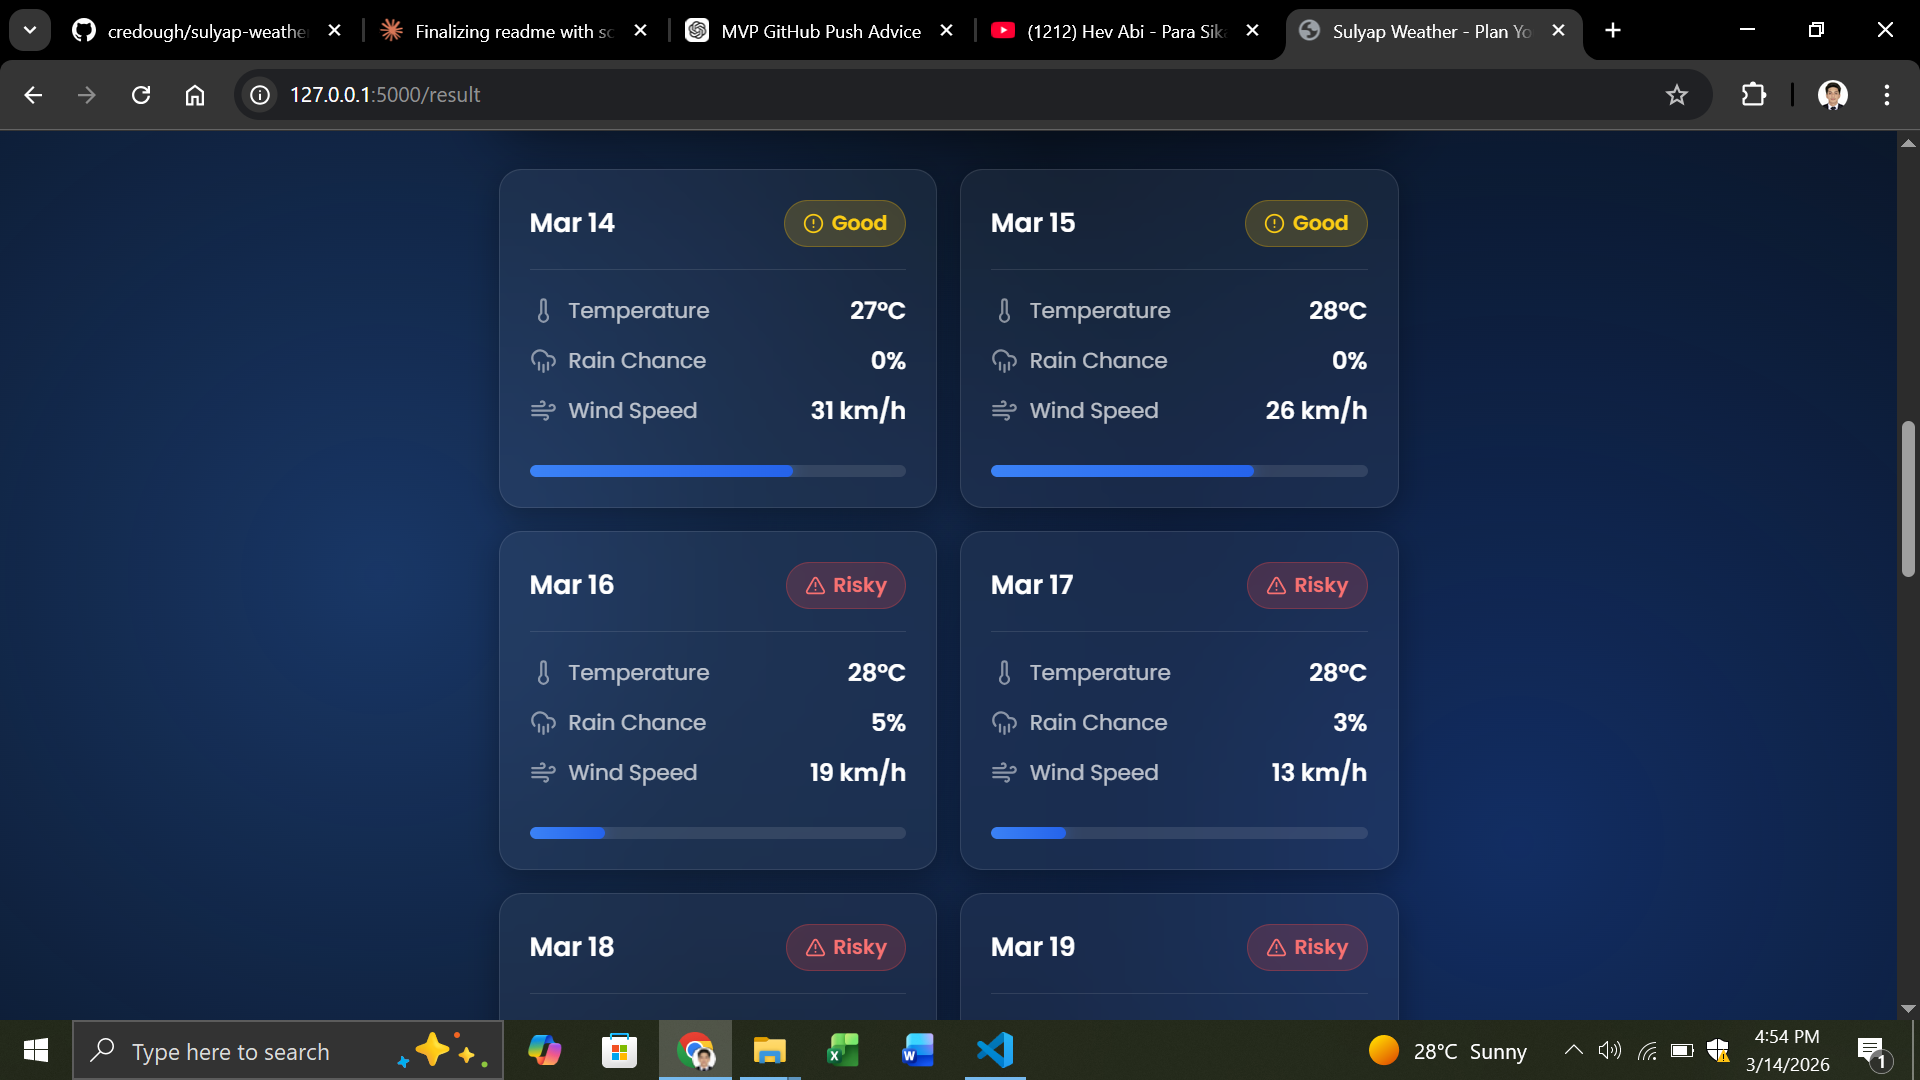
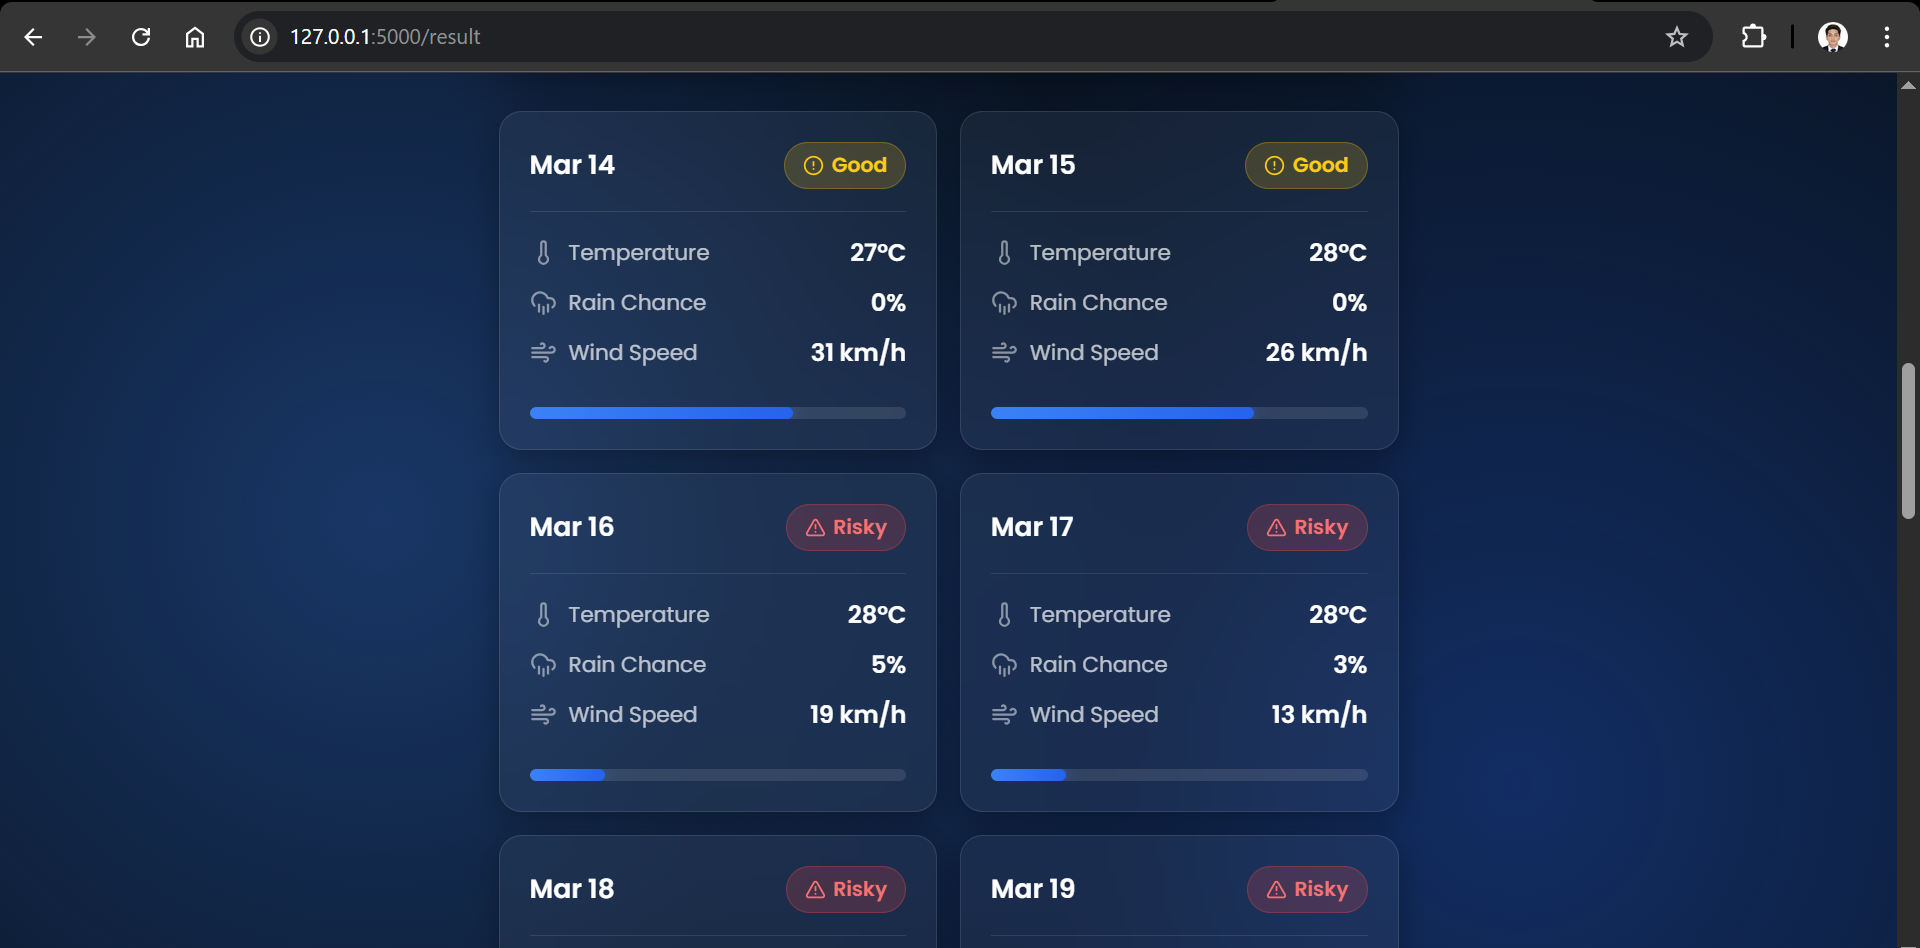
Feature/add branding theme (#10)
update readme

diff --git a/README.md b/README.md
@@ -1,7 +1,7 @@
 <div align="center">
 
   <h1>
-    <img src="logo/IMG_2220.PNG" alt="Sulyap Weather Logo" height="50" style="vertical-align: middle; margin-right: 10px;"/>
+    <img src="logo/IMG_2220.PNG" alt="Sulyap Weather Logo" height="30" style="vertical-align: middle; margin-right: 10px;"/>
     Sulyap-weather
   </h1>
 
@@ -31,9 +31,6 @@ A Flask-based weather intelligence API that fetches real-time 16-day forecasts a
 
 ### Input Fields
 ![An interface showing location input and activity selector](screenshots/user_input.png)
-
-### Forecast Results — Beach Activity
-![16-day forecast cards with scores and badges for beach activity in Boracay](screenshots/forecast-beach.png)
 
 ### Top Pick Highlight
 ![Top pick card showing the best day with a Perfect badge](screenshots/top-pick.png)
